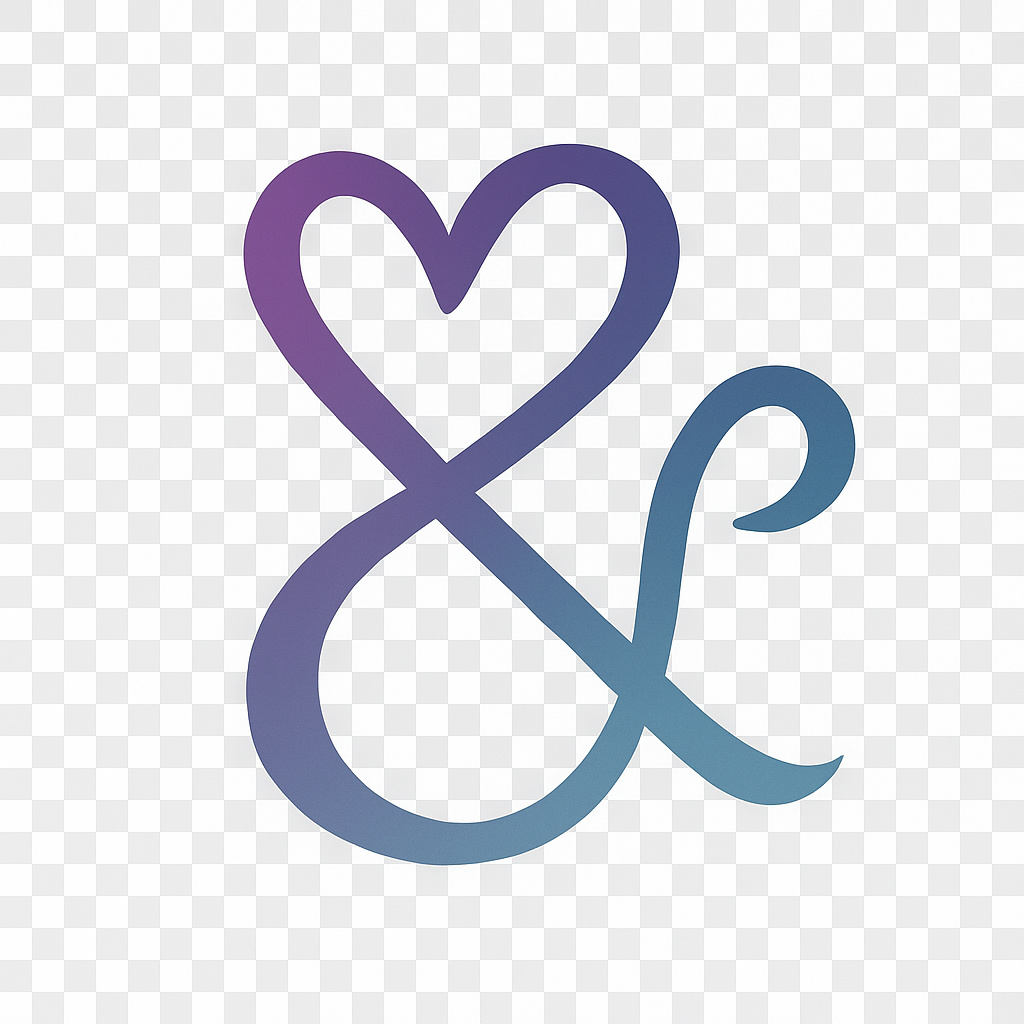
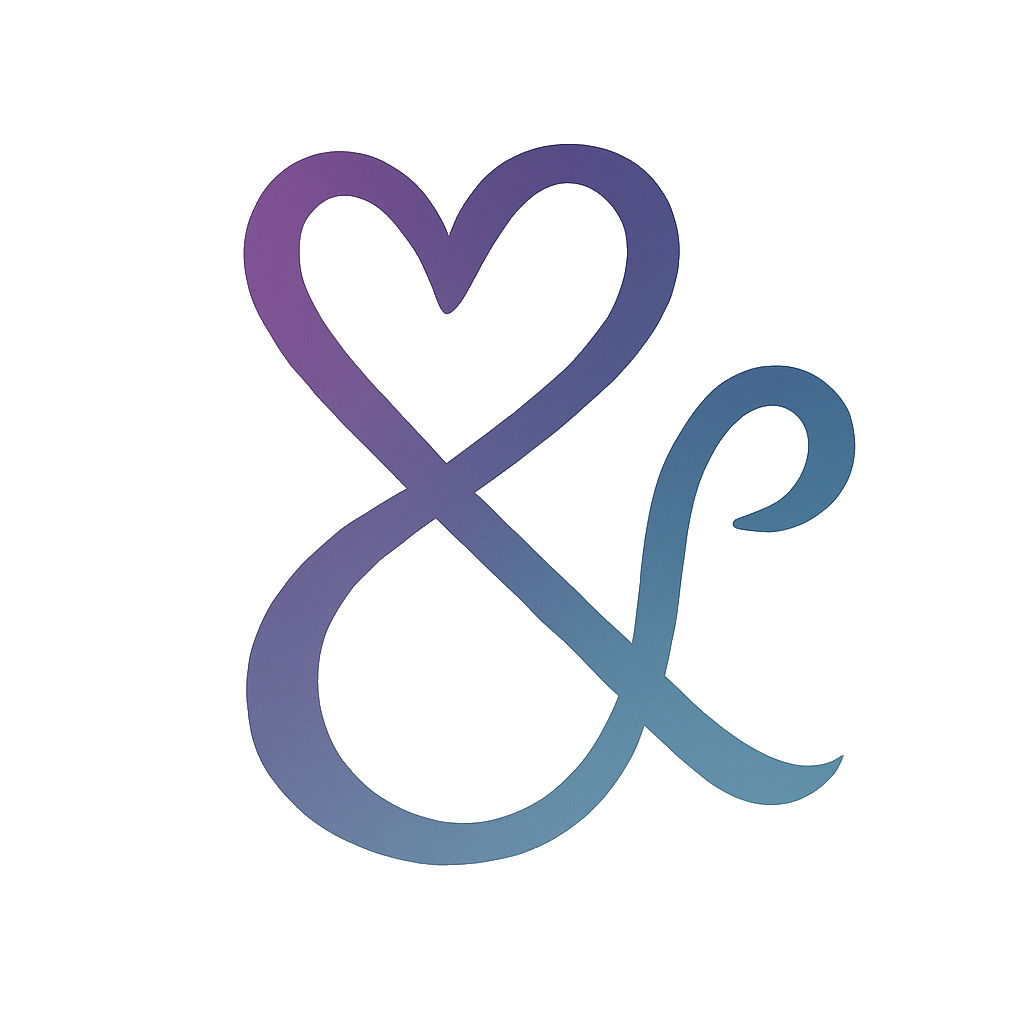
Remove white background from NewHeart ampersand
Processed the NewHeart image to remove white background and updated cache-busting parameter to force reload of the transparent version.

🤖 Generated with [Claude Code](https://claude.com/claude-code)

diff --git a/index.html b/index.html
@@ -21,7 +21,7 @@
     <main>
       <section class="hero">
         <div class="container hero-inner">
-          <h1 style="font-size: 5rem; background: linear-gradient(90deg, #ff6ec7, #5fd3f3); -webkit-background-clip: text; -webkit-text-fill-color: transparent; background-clip: text;">Ben <img class="ampersand-img" src="assets/img/NewHeart.png?v=1" alt="" aria-hidden="true"> <span class="sr-only">and</span> Kathy</h1>
+          <h1 style="font-size: 5rem; background: linear-gradient(90deg, #ff6ec7, #5fd3f3); -webkit-background-clip: text; -webkit-text-fill-color: transparent; background-clip: text;">Ben <img class="ampersand-img" src="assets/img/NewHeart.png?v=2" alt="" aria-hidden="true"> <span class="sr-only">and</span> Kathy</h1>
           <p class="lead" style="font-size: 1.375rem;">are finally getting married!</p>
           <p class="small" style="margin-bottom: 0; font-size: 1.125rem;">on</p>
           <p class="date" style="margin-top: 0; font-size: 1.75rem; font-weight: 700; font-family: 'Playfair Display', Georgia, 'Times New Roman', Times, serif; color: #7dd3fc;">Saturday, October 10, 2026</p>
